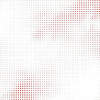
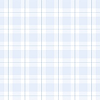
construção do fundo001 mais incrementado

diff --git a/fundo001.html b/fundo001.html
@@ -1,0 +1,83 @@
+<!DOCTYPE html>
+<html lang="pt-br">
+<head>
+    <meta charset="UTF-8">
+    <meta name="viewport" content="width=device-width, initial-scale=1.0">
+    <title>Exercício 22 - Curso em Vídeo</title>
+    <style>
+        body {
+            background-image: url(img/pattern002.png);
+            background-repeat: repeat;
+            background-size: 100px;
+            background-attachment: fixed;
+        }
+
+        div.quadrado {
+            background-color: black;
+            display: inline-block;
+            width: 400px;
+            height: 400px;
+            border-radius: 16px;
+            margin: 6px;
+            box-shadow: 0px 0px 8px rgba(0, 0, 0, 0.315);
+            transition-duration: 0.5s;
+            transition-timing-function: ease-in-out;
+        }
+
+        div.quadrado:hover {
+            box-shadow: 0px 0px 8px rgba(42, 63, 182, 0.801);
+        }
+
+        div#q1 {
+            background-image: url(newjeans/minji.jpg);
+            background-size: 400px;
+        }
+
+        div#q2 {
+            background-image: url(newjeans/grupo.png);
+            background-size: 400px;
+        }
+
+        div#q3 {
+            background-image: url(newjeans/hanni.png);
+            background-size: 400px;
+        }
+
+        div#q4 {
+            background-image: url(newjeans/danielle.jpg);
+            background-size: 400px;
+        }
+
+        div#q5 {
+            background-image: url(newjeans/haerin.png);
+            background-size: 400px;
+        }
+
+        div#q6 {
+            background-image: url(newjeans/hyein.jpg);
+            background-size: 400px;
+        }
+    </style>
+</head>
+<body>
+    <div class="quadrado" id="q1">
+
+    </div>
+    <div class="quadrado" id="q2">
+
+    </div>
+    <div class="quadrado" id="q3">
+
+    </div>
+    <br>
+    <div class="quadrado" id="q4">
+
+    </div>
+    <div class="quadrado" id="q5">
+
+    </div>
+    <div class="quadrado" id="q6">
+
+    </div>
+</body>
+</html>
